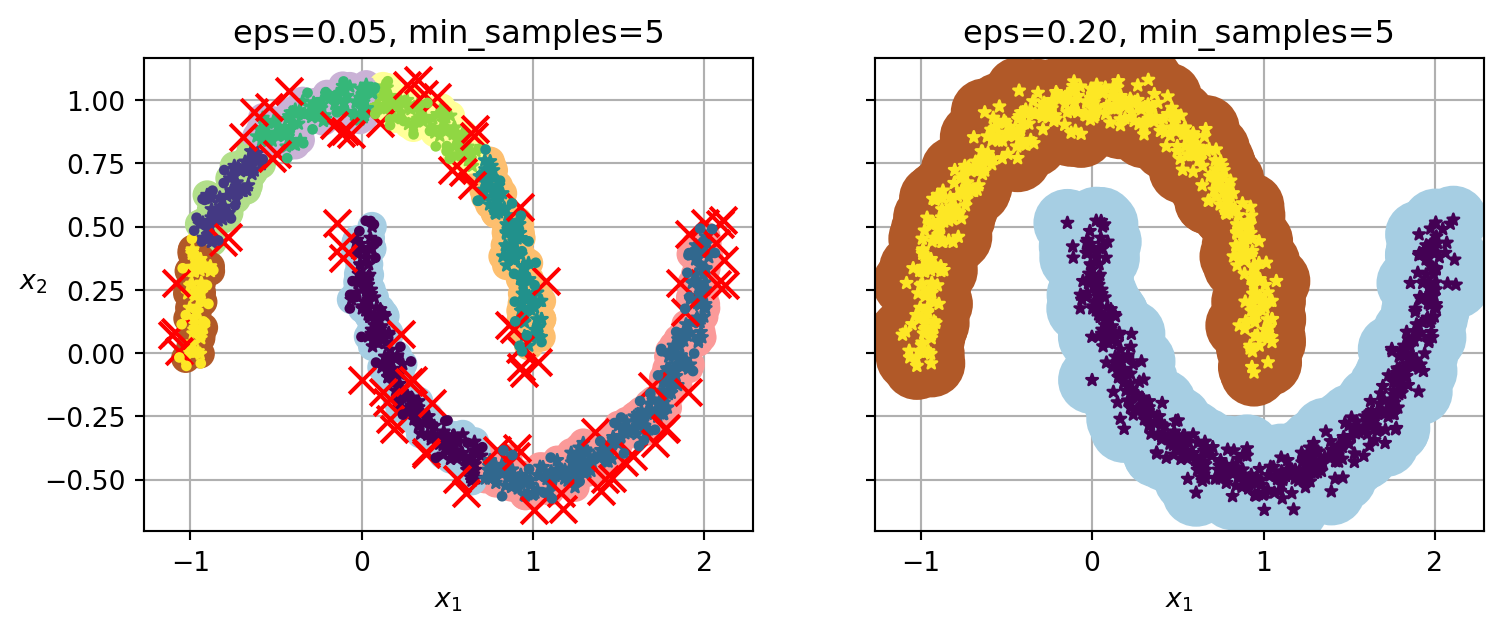
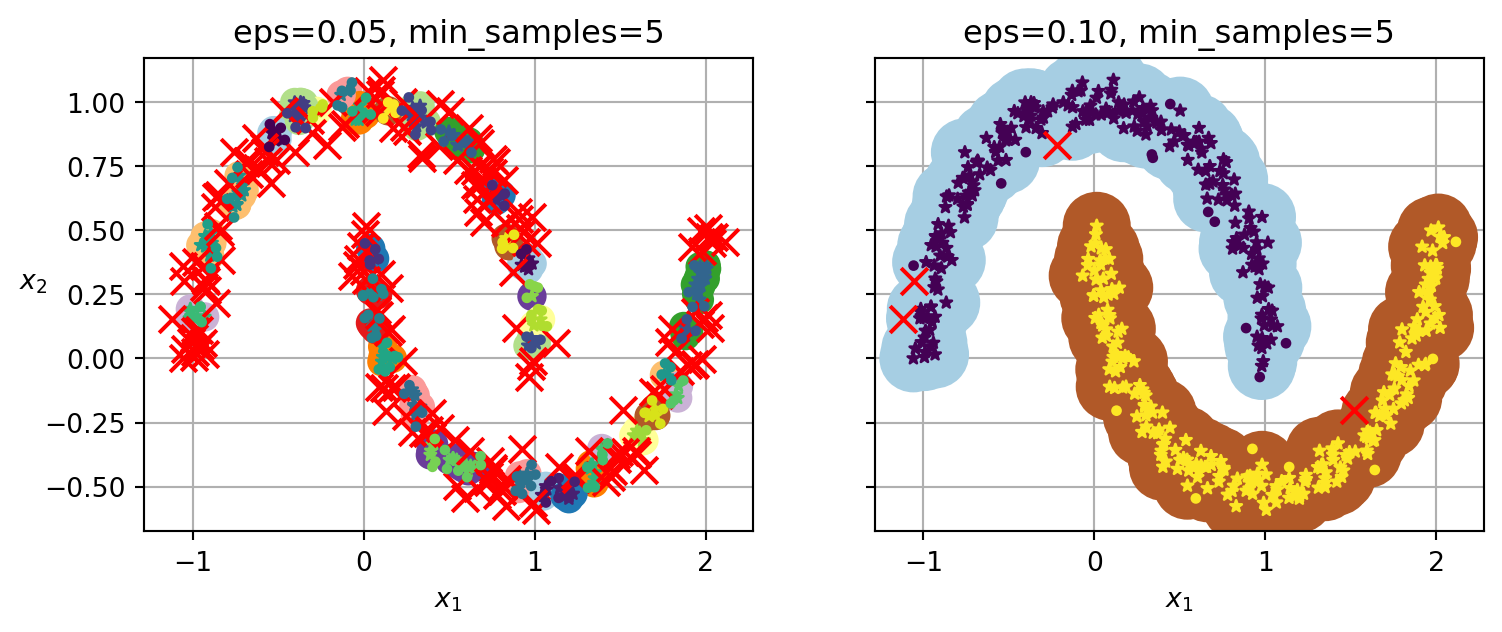
probability post

diff --git a/docs/posts/post_2/index.html b/docs/posts/post_2/index.html
@@ -191,13 +191,13 @@ pre > code.sourceCode > span > a:first-child::before { text-decoration: underlin
 <p>Here is an instance of DB Scan doing clustering:</p>
 <div class="cell" data-execution_count="1">
 <details>
-<summary>Code</summary>
+<summary>DB Scan perform and label</summary>
 <div class="sourceCode cell-code" id="cb1"><pre class="sourceCode python code-with-copy"><code class="sourceCode python"><span id="cb1-1"><a href="#cb1-1" aria-hidden="true" tabindex="-1"></a><span class="im">from</span> sklearn.cluster <span class="im">import</span> DBSCAN</span>
 <span id="cb1-2"><a href="#cb1-2" aria-hidden="true" tabindex="-1"></a><span class="im">from</span> sklearn.datasets <span class="im">import</span> make_moons</span>
 <span id="cb1-3"><a href="#cb1-3" aria-hidden="true" tabindex="-1"></a><span class="im">import</span> matplotlib.pyplot <span class="im">as</span> plt</span>
 <span id="cb1-4"><a href="#cb1-4" aria-hidden="true" tabindex="-1"></a><span class="im">import</span> numpy <span class="im">as</span> np</span>
 <span id="cb1-5"><a href="#cb1-5" aria-hidden="true" tabindex="-1"></a></span>
-<span id="cb1-6"><a href="#cb1-6" aria-hidden="true" tabindex="-1"></a>X, y <span class="op">=</span> make_moons(n_samples<span class="op">=</span><span class="dv">1000</span>, noise<span class="op">=</span><span class="fl">0.05</span>, random_state<span class="op">=</span><span class="dv">42</span>)</span>
+<span id="cb1-6"><a href="#cb1-6" aria-hidden="true" tabindex="-1"></a>X, y <span class="op">=</span> make_moons(n_samples<span class="op">=</span><span class="dv">500</span>, noise<span class="op">=</span><span class="fl">0.05</span>, random_state<span class="op">=</span><span class="dv">40</span>)</span>
 <span id="cb1-7"><a href="#cb1-7" aria-hidden="true" tabindex="-1"></a>dbscan <span class="op">=</span> DBSCAN(eps<span class="op">=</span><span class="fl">0.05</span>, min_samples<span class="op">=</span><span class="dv">5</span>)</span>
 <span id="cb1-8"><a href="#cb1-8" aria-hidden="true" tabindex="-1"></a>dbscan.fit(X)</span>
 <span id="cb1-9"><a href="#cb1-9" aria-hidden="true" tabindex="-1"></a></span>
@@ -231,7 +231,7 @@ pre > code.sourceCode > span > a:first-child::before { text-decoration: underlin
 <span id="cb1-37"><a href="#cb1-37" aria-hidden="true" tabindex="-1"></a>    plt.grid()</span>
 <span id="cb1-38"><a href="#cb1-38" aria-hidden="true" tabindex="-1"></a>    plt.gca().set_axisbelow(<span class="va">True</span>)</span>
 <span id="cb1-39"><a href="#cb1-39" aria-hidden="true" tabindex="-1"></a></span>
-<span id="cb1-40"><a href="#cb1-40" aria-hidden="true" tabindex="-1"></a>dbscan2 <span class="op">=</span> DBSCAN(eps<span class="op">=</span><span class="fl">0.2</span>)</span>
+<span id="cb1-40"><a href="#cb1-40" aria-hidden="true" tabindex="-1"></a>dbscan2 <span class="op">=</span> DBSCAN(eps<span class="op">=</span><span class="fl">0.1</span>)</span>
 <span id="cb1-41"><a href="#cb1-41" aria-hidden="true" tabindex="-1"></a>dbscan2.fit(X)</span>
 <span id="cb1-42"><a href="#cb1-42" aria-hidden="true" tabindex="-1"></a></span>
 <span id="cb1-43"><a href="#cb1-43" aria-hidden="true" tabindex="-1"></a>plt.figure(figsize<span class="op">=</span>(<span class="dv">9</span>, <span class="fl">3.2</span>))</span>
@@ -248,6 +248,7 @@ pre > code.sourceCode > span > a:first-child::before { text-decoration: underlin
 <p><img src="index_files/figure-html/cell-2-output-1.png" width="751" height="316"></p>
 </div>
 </div>
+<p>Code based on the textbook (Hands-on Machine Learning https://www.oreilly.com/library/view/hands-on-machine-learning/9781098125967/)</p>
 <p>Taking these clusters the user can then put meaning to them and see if it is properly distributed. As you can see the DB Scan first has too small an epsilon and does not properly identify the two meaningful clusters.</p>
 <p>DB Scan makes its clusters based on distance between points so it does not require a preset number of clusters to look for.</p>
 <div class="cell" data-execution_count="2">

diff --git a/docs/index.html b/docs/index.html
@@ -211,7 +211,7 @@ Greg Brinson
 </a>
 </div>
 </div>
-<div class="quarto-post image-right" data-index="1" data-categories="analysis" data-listing-date-sort="1700715600000" data-listing-file-modified-sort="1701726343249" data-listing-date-modified-sort="NaN" data-listing-reading-time-sort="2">
+<div class="quarto-post image-right" data-index="1" data-categories="analysis" data-listing-date-sort="1700715600000" data-listing-file-modified-sort="1701818550616" data-listing-date-modified-sort="NaN" data-listing-reading-time-sort="2">
 <div class="thumbnail">
 <p><a href="./posts/post_4/index.html"> <p class="card-img-top"><img src="posts\post_4\index_files\figure-html\cell-4-output-1.png"  class="thumbnail-image card-img"/></p> </a></p>
 </div>
@@ -246,7 +246,7 @@ Greg Brinson
 </a>
 </div>
 </div>
-<div class="quarto-post image-right" data-index="2" data-categories="analysis" data-listing-date-sort="1700715600000" data-listing-file-modified-sort="1701759516183" data-listing-date-modified-sort="NaN" data-listing-reading-time-sort="3">
+<div class="quarto-post image-right" data-index="2" data-categories="analysis" data-listing-date-sort="1700715600000" data-listing-file-modified-sort="1701819313131" data-listing-date-modified-sort="NaN" data-listing-reading-time-sort="3">
 <div class="thumbnail">
 <p><a href="./posts/post_2/index.html"> <p class="card-img-top"><img src="posts\post_2\index_files\figure-html\cell-2-output-1.png"  class="thumbnail-image card-img"/></p> </a></p>
 </div>
@@ -316,9 +316,9 @@ Greg Brinson
 </a>
 </div>
 </div>
-<div class="quarto-post image-right" data-index="4" data-categories="news,code,analysis" data-listing-date-sort="1700715600000" data-listing-file-modified-sort="1701816440480" data-listing-date-modified-sort="NaN" data-listing-reading-time-sort="1">
+<div class="quarto-post image-right" data-index="4" data-categories="news,code,analysis" data-listing-date-sort="1700715600000" data-listing-file-modified-sort="1701826685269" data-listing-date-modified-sort="NaN" data-listing-reading-time-sort="3">
 <div class="thumbnail">
-<p><a href="./posts/post_1/index.html"> <div class="listing-item-img-placeholder card-img-top" >&nbsp;</div> </a></p>
+<p><a href="./posts/post_1/index.html"> <p class="card-img-top"><img src="posts\post_1\index_files\figure-html\cell-2-output-1.png"  class="thumbnail-image card-img"/></p> </a></p>
 </div>
 <div class="body">
 <a href="./posts/post_1/index.html">
@@ -342,7 +342,7 @@ analysis
 </div>
 <a href="./posts/post_1/index.html">
 <div class="listing-description">
--TBD
+Probability is a major part of the underlying pieces of Machine Learning. When preforming actual tasks, it is not immediately apparent the role that it plays. Machine…
 </div>
 </a>
 </div>

diff --git a/docs/posts/post_1/index.html b/docs/posts/post_1/index.html
@@ -154,8 +154,32 @@ ul.task-list li input[type="checkbox"] {
 
 
 
-<p>-TBD</p>
-<p>-Histogram</p>
+<p>Probability is a major part of the underlying pieces of Machine Learning. When preforming actual tasks, it is not immediately apparent the role that it plays. Machine learning is all about defining the probability that some data relates to a class. Two examples that show probability in action are the Probability Density Function (PDF) and the Kernel Density Estimation (KDE). A histogram is another useful probability plot that shows the actual value distributions of the data in a density form. Shown below is an example of a PDF using the skl iris dataset. It plots the density of sepal length and how present each data point was within the set. It is a jagged plot due to the small amount of data points available.</p>
+<p>Here is a histogram of the iris data.</p>
+<div class="cell" data-execution_count="1">
+<div class="cell-output cell-output-display">
+<p><img src="index_files/figure-html/cell-2-output-1.png" width="597" height="449"></p>
+</div>
+</div>
+<p>Here is an example of a KDE/PDF plot. This shows the estimated density if the data and model were to be generalized. This is the distribution on a larger dataset and the predictions the model would make on a larger test. A PDF is almost the same except it is a rounded curve using the current data set.</p>
+<div class="cell" data-execution_count="2">
+<div class="cell-output cell-output-display">
+<p><img src="index_files/figure-html/cell-3-output-1.png" width="597" height="449"></p>
+</div>
+</div>
+<p>These are another example of the same plots (Histogram and KDE/PDF) using a different dataset.</p>
+<p>Histogram</p>
+<div class="cell" data-execution_count="3">
+<div class="cell-output cell-output-display">
+<p><img src="index_files/figure-html/cell-4-output-1.png" width="597" height="449"></p>
+</div>
+</div>
+<p>PDF/KDE</p>
+<div class="cell" data-execution_count="4">
+<div class="cell-output cell-output-display">
+<p><img src="index_files/figure-html/cell-5-output-1.png" width="597" height="449"></p>
+</div>
+</div>
 
 
 
